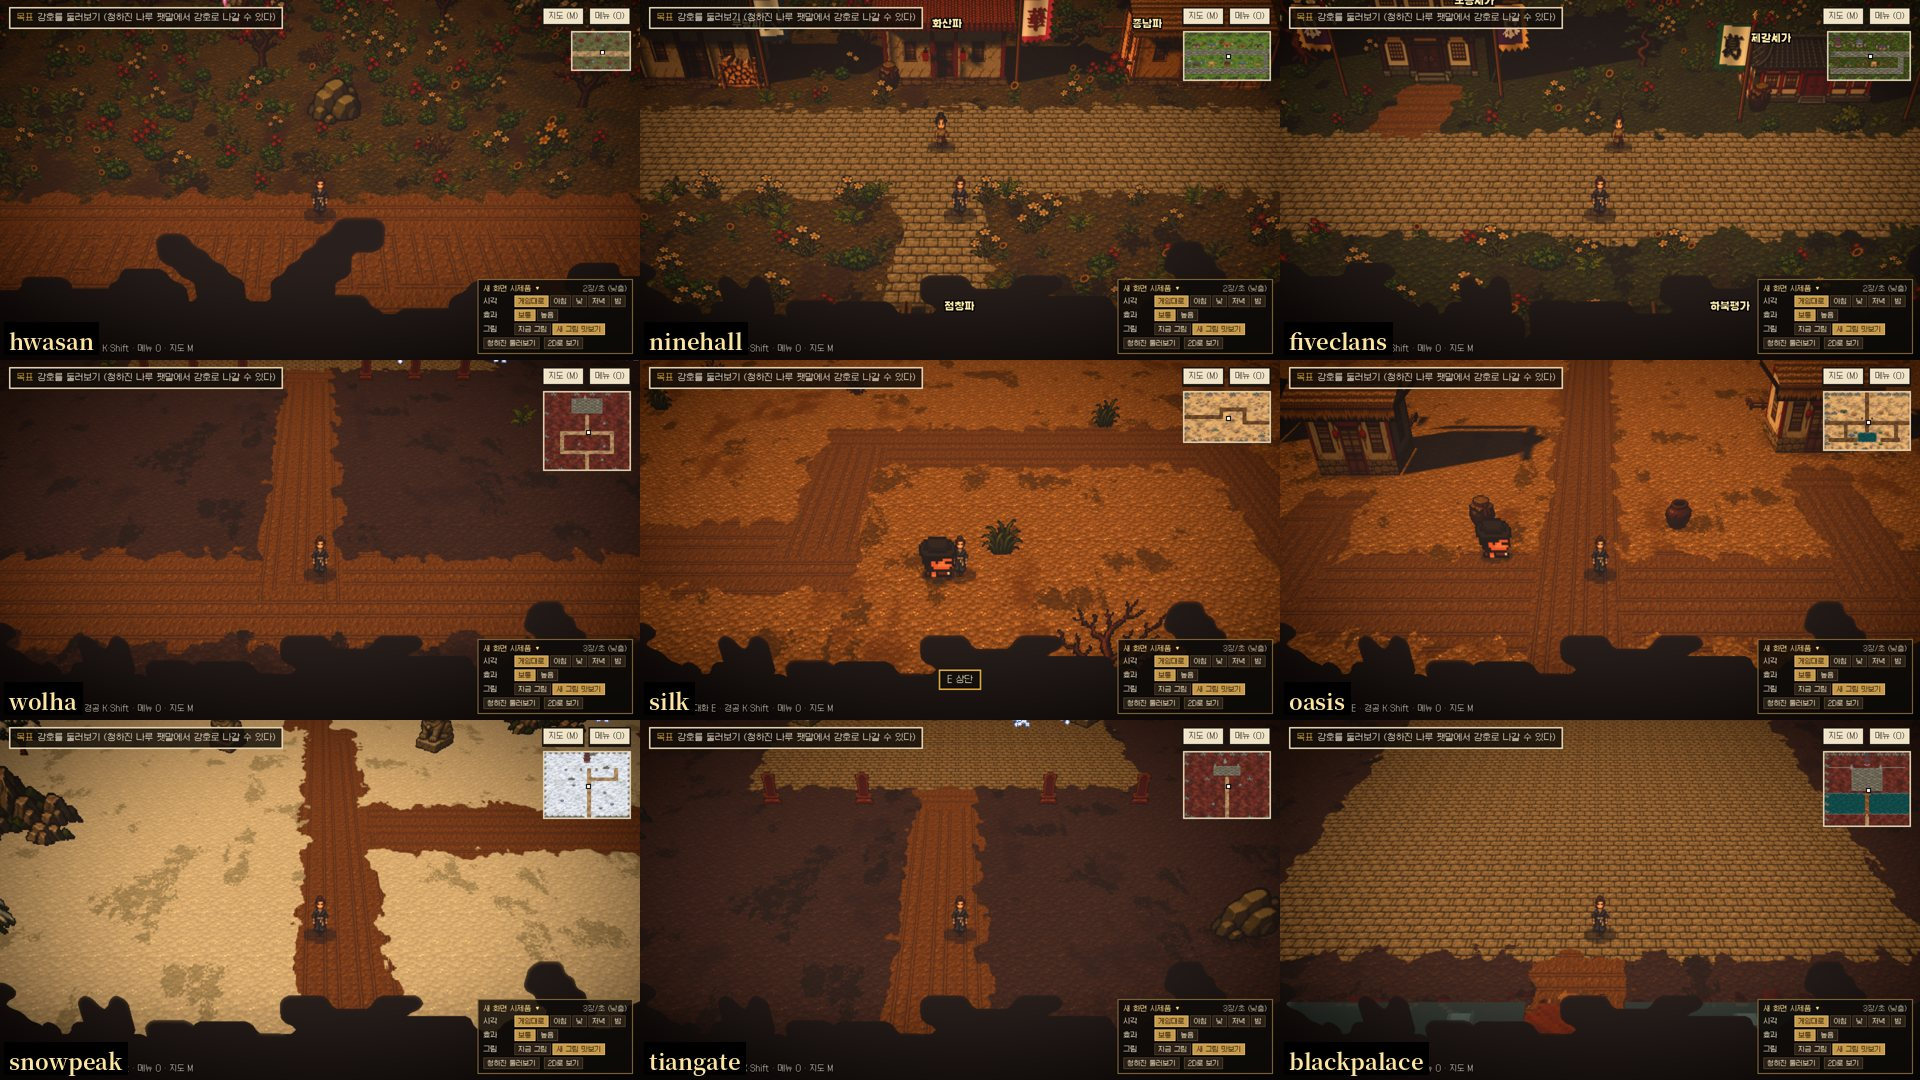
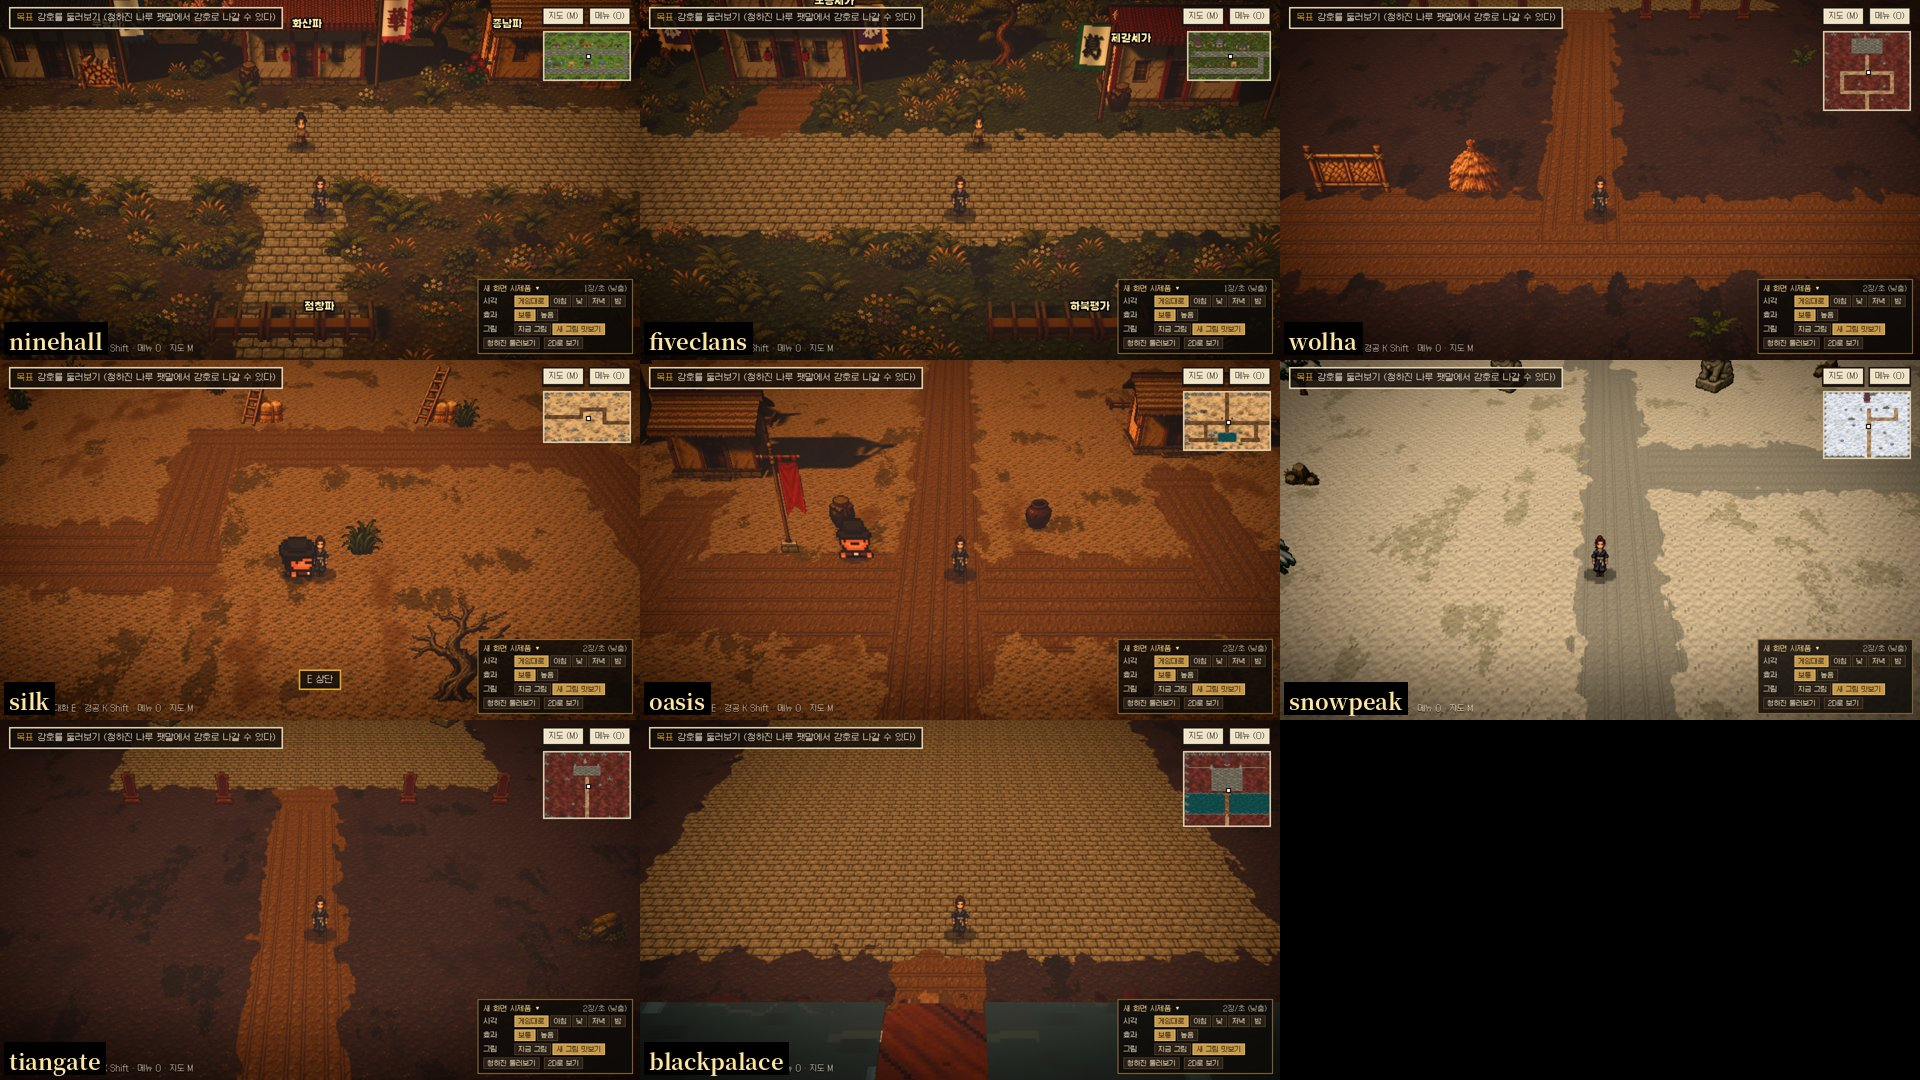
Higgsfield 그림 넣음: 나무 여덟, 살림 소품 열둘, 땅 덮개 열둘, 아낙·노인·노파 걷기. 새 화면에서 옛 나무·꽃·덤불을 바꿔 그리고, 길가 채우기에 새 소품, 마당 가장자리도 채움
Claude-Session: https://claude.ai/code/session_01UsE88bAfeaBtXwiPKmrpyg

diff --git a/js/base.js b/js/base.js
@@ -179,10 +179,10 @@ function townLayout(m, l) {
 }
 // 지도에 있는 건물 가운데 문이 없는 것에 문을 달아 준다
 // 거리 채움 소품(지도마다 성격에 맞게). 길 북쪽 가장자리에 띄엄띄엄
-const STREET = { town: ['p_lanterns', 'p_barrels', 'p_sacks', 'p_flowerbed', 'p_trough', 'v_jars', 'v_crates', 'v_hay', 'v_wood', 'p_banner'], wild: ['v_hay', 'v_wood', 'p_sacks', 'p_barrels', 'v_cart'],
+const STREET = { town: ['p_lanterns', 'p_barrels', 'p_sacks', 'p_flowerbed', 'p_trough', 'v_jars', 'v_crates', 'v_hay', 'v_wood', 'p_banner', 'p_bench', 'p_teatable', 'p_vat', 'p_woodshed', 'p_laundry', 'p_pots', 'p_chili', 'p_garlic', 'p_ladder', 'p_coop'], wild: ['v_hay', 'v_wood', 'p_sacks', 'p_barrels', 'v_cart', 'p_woodshed', 'p_ladder', 'p_bamboofence'],
   fort: ['p_weapons', 'p_target', 'p_barrels', 'p_sacks', 'v_wood', 'p_banner', 'v_crates'], guhwa: ['p_lanterns', 'p_flowerbed', 'p_barrels', 'p_foodstall', 'p_sacks', 'p_banner', 'v_jars'],
   cloudmt: ['p_lanterns', 'p_flowerbed', 'p_weapons', 'p_target', 'p_lion', 'p_banner'], shaolin: ['p_lanterns', 'p_flowerbed', 'p_lion', 'p_weapons'], ninehall: ['p_lanterns', 'p_flowerbed', 'p_banner', 'p_weapons', 'p_lion'],
-  fiveclans: ['p_lanterns', 'p_flowerbed', 'p_banner', 'p_rail', 'p_lion'], oasis: ['p_barrels', 'p_sacks', 'p_trough', 'v_jars', 'p_foodstall', 'p_banner'] };
+  fiveclans: ['p_lanterns', 'p_flowerbed', 'p_banner', 'p_rail', 'p_lion'], oasis: ['p_barrels', 'p_sacks', 'p_trough', 'v_jars', 'p_foodstall', 'p_banner', 'p_vat', 'p_chili'] };
 function autoDoors(m, owner) {
   [...m.stamps].forEach((st, i) => { if (st.iso || !HOUSES.includes(st.name)) return; const w = STAMPS[st.name][3], h = STAMPS[st.name][4], cx = st.x + w / 2, by = st.y + h; if (m.portals.some(q => q.x + q.w > st.x && q.x < st.x + w && Math.abs(q.y - by) < 28)) return;  // 쿼터뷰 집(이름이 같은 inn 등)은 건너뛴다
     const bx = cx / TS / m.k, byT = (by / TS + 1) / m.k; if (m.blocked(cx, by + 16) || m.blocked(cx, by + 8)) return; const big = st.name === 'hall' || st.name === 'lodge', kind = big ? 'temple' : 'home', id = `h_${m.id}_${i}`, [, , ex, ey] = ROOM[kind]; ROOMS[id] = { back: m.id, bx, by: byT, kind, name: big ? '전각' : '집', owner };

diff --git a/js/maps.js b/js/maps.js
@@ -133,7 +133,7 @@ class MapDef {
     const apron = this.stamps.filter(st => DOORED.includes(st.name)).map(st => { const S = STAMPS[st.name]; return { x: st.x + S[3] / 2 - 20, y: st.y + S[4] - 4, w: 40, h: 40 }; });
     const hit = (r, pad) => this.solids.some(o => o.x < r.x + r.w + pad && o.x + o.w + pad > r.x && o.y < r.y + r.h + pad && o.y + o.h + pad > r.y) || this.portals.some(q => q.x < r.x + r.w + 16 && q.x + q.w + 16 > r.x && q.y < r.y + r.h + 24 && q.y + q.h + 24 > r.y) || apron.some(a => a.x < r.x + r.w && a.x + a.w > r.x && a.y < r.y + r.h && a.y + a.h > r.y);
     let last = -99;
-    for (let ty = 2; ty < this.h - 1; ty++) for (let tx = 1; tx < this.w - 1; tx++) { if (this.g[ty][tx] !== 1 || this.g[ty - 1][tx] !== 0 || this.g[ty - 2]?.[tx] !== 0) continue;
+    for (let ty = 2; ty < this.h - 1; ty++) for (let tx = 1; tx < this.w - 1; tx++) { if ((this.g[ty][tx] !== 1 && this.g[ty][tx] !== 3) || this.g[ty - 1][tx] !== 0 || this.g[ty - 2]?.[tx] !== 0) continue;  // 길(1)과 마당(3) 북쪽 가장자리
       if (hs(tx, ty) > 1 / every || tx - last < 3) continue; const name = list[Math.floor(hs(ty, tx * 3) * list.length)], S = STAMPS[name]; if (!S) continue;
       const px = tx * TS + TS / 2 - S[3] / 2, py = ty * TS - S[4] - 1, r = S.length > 5 ? { x: px + S[5], y: py + S[6], w: S[7], h: S[8] } : { x: px, y: py + S[4] - 6, w: S[3], h: 6 };
       let ok = !hit(r, 6); for (let x = r.x; ok && x < r.x + r.w; x += 4) for (let y = r.y; y < r.y + r.h; y += 4) { const v = this.g[Math.floor(y / TS)]?.[Math.floor(x / TS)]; if (v !== 0) { ok = false; break; } }

diff --git a/art-src/higgsfield/README.md b/art-src/higgsfield/README.md
@@ -4,15 +4,14 @@
 
 | 번호 | 내용 | 모델 | 상태 |
 |---|---|---|---|
-| HT1 | 나무 여덟(소나무, 녹나무, 매화, 버드나무, 대나무, 단풍, 떨기나무, 죽은 나무), 4열 2행 | gpt_image_2_6 medium 2k, 참고 HP2 + 일검풍운결 낮 화면 | 받음, 잘라 둠(t_*) |
-| HP3 | 살림 소품 열둘(긴 의자, 찻상, 물독, 장작 헛간, 빨래 장대, 화분, 대울타리, 돌담, 고추 말리는 시렁, 마늘·옥수수 걸이, 사다리와 짚단, 닭장) | 같음, 참고 HP2 | 받음, 잘라 둠(p_*) |
-| HP4 | 땅 덮개 열둘(키 큰 풀, 고사리, 노란 꽃, 흰·보라 꽃, 이끼 바위, 돌무더기, 쓰러진 통나무, 버섯 그루터기, 갈대, 연잎, 작은 덤불, 덩굴) | 같음, 참고 HP2 + 일검풍운결 낮 화면 | 받음, 잘라 둠(g_*) |
+| HT1 | 나무 여덟(소나무, 녹나무, 매화, 버드나무, 대나무, 단풍, 떨기나무, 죽은 나무), 4열 2행 | gpt_image_2_6 medium 2k, 참고 HP2 + 일검풍운결 낮 화면 | 넣음(t_*) |
+| HP3 | 살림 소품 열둘(긴 의자, 찻상, 물독, 장작 헛간, 빨래 장대, 화분, 대울타리, 돌담, 고추 말리는 시렁, 마늘·옥수수 걸이, 사다리와 짚단, 닭장) | 같음, 참고 HP2 | 넣음(p_*) |
+| HP4 | 땅 덮개 열둘(키 큰 풀, 고사리, 노란 꽃, 흰·보라 꽃, 이끼 바위, 돌무더기, 쓰러진 통나무, 버섯 그루터기, 갈대, 연잎, 작은 덤불, 덩굴) | 같음, 참고 HP2 + 일검풍운결 낮 화면 | 넣음(g_*) |
 | HW2 | 큰 건물 벽(법당, 문파 회관, 부잣집; 1행 앞벽, 2행 옆벽), 참고 HW1 | gpt_image_2_6 medium 2k | 받음 |
-| HN2a/b | 아낙 걷기(a 앞·뒤, b 옆), 참고 HC1a/b | 같음 | 둘 다 받음 |
-| HN3a/b | 노인(지팡이) 걷기 | 같음 | 둘 다 받음 |
-| HN4a/b | 노파(등짐) 걷기 | 같음 | 둘 다 받음 |
+| HN2a/b | 아낙 걷기(a 앞·뒤, b 옆), 참고 HC1a/b | 같음 | 넣음(n_*) |
+| HN3a/b | 노인(지팡이) 걷기 | 같음 | 넣음(n_*) |
+| HN4a/b | 노파(등짐) 걷기 | 같음 | 넣음(n_*) |
 | HN1a | 마을 사내 걷기 | 무료 줄 | 30분 넘게 기다리는 중 |
 
-받은 원본은 아직 이 저장소로 못 옮겼다: 작업 공간에서 Higgsfield 파일 주소(d8j0ntlcm91z4.cloudfront.net)에 닿지 않는다. 주소를 허용하면 내려받아 `tools/hf_cut.py`로 자른다.
 
 요청 원문은 `docs/higgsfield-requests.md`.
